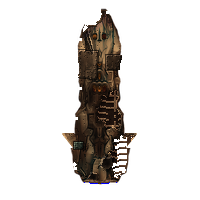
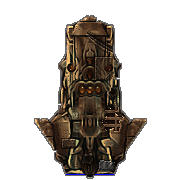
The Purifier escorts: coherent symmetrical warships, damage inside the outline
- Each escort is now a symmetric Shakturi hull with the family's armoured pointed prow and mirrored fins / flank
  armour (no glued-on side pods): a small finned frigate, a long straight-sided destroyer with flush gun rails, an
  arrowhead cruiser, a fortress capital ship with armour flanks, a box-sided carrier between two flight decks, a
  troop transport lined with drop pods.
- Damage keeps the silhouette: breaches leave the edge rail standing, melted edges are shallow, chips small, gouges
  no longer bite the outline; fewer, smaller missing plates.
- More value contrast (recesses darker, raised detail and the upper-left outline lit) and a dark outline (1 px on
  ships, 2 px on stations) so the frames and the dock read on bright / red nebulae.

Claude-Session: https://claude.ai/code/session_0163BYLbDKYohHLP1KWpaU5H

Changed region(s): [[0.1667, 0.0278, 0.8333, 1.0]]

diff --git a/game/scripts/purifier-ships.py b/game/scripts/purifier-ships.py
@@ -20,17 +20,21 @@ Per output frame (bow up, as the stock frames; square canvas):
    trusses, drop pods, the dock's cradle ring and clamp arms, drifting debris) layered back to front, each casting a
    soft contact shadow on what is below. Every piece is reduced to its shading (luminance, levelled per piece); the
    Shakturi red lamps ride along as a glow channel, and the thruster (pure blue) / light (pure yellow) marker pixels
-   as points, mapped through each placement and dropped where a later piece covers them. Distinct per role at play
-   zoom: a needle frigate, a destroyer with gun sponsons on outriggers, a cruiser with swept aft wings, a broad
-   fortress capital ship flanked by bulwark hulls, a twin-hulled carrier joined by an open ribbed hangar deck, a fat
-   troop transport racked with drop pods (some clamps empty).
+   as points, mapped through each placement and dropped where a later piece covers them. One shipyard, one era: each
+   escort is a symmetric Shakturi hull (bow up, engines aft) with the same armoured pointed prow and mirrored fins /
+   flank armour; the roles differ by size and outline at play zoom: a small finned frigate, a long straight-sided
+   destroyer with flush gun rails, an arrowhead cruiser on swept wings, a broad fortress capital ship with armour
+   flanks, a box-sided carrier between two flight decks, a troop transport lined with drop pods.
 2. Paint: the shading gradient-mapped onto the planet destroyer's bronze ramp (its saturated pixels' median colour
    per luminance band), dulled and a little desaturated (tarnish); trusses and cradles in a darker bronze.
 3. Battle damage (never mirrored): verdigris pooled in the crevices and streaked aft, mismatched alloy patches (dull
    steel, dark bronze, verdigris-green; seams, rivet rows, some overhanging the hull edge), broad scorch, missing
    plates (a dark hole with the ribs and stringers inside, a torn lit lip), skeletal breaches at the hull edge (the
-   skin gone, the ribs standing out to the old outline, space showing between them), impact craters (lit rim, cracks,
-   soot halo), long gouges, melted edges (eaten silhouette, slag rim, heat tint), chipped edges and fine pitting.
+   skin gone, space showing between the ribs, the edge rail of the outline left standing), impact craters (lit rim,
+   cracks, soot halo), long gouges, shallow melted edges (slag rim, heat tint), small chips and fine pitting: the
+   damage sits inside the silhouette, which keeps its shape. Value contrast: recesses darkened, raised detail lifted,
+   lit bronze on the outline's upper-left edges and shadow on the far ones, then a dark outline (1 px on the ships,
+   2 px on the stations) so the frames read on bright and red nebulae.
    Sized for the drawn sizes (about 60-130 px at the closest zoom, 15-35 px at play zoom), so the patches, the
    notches in the outline and the breaches still read small.
 4. Lights: the red lamps become a dim amber ember (as the destroyer's palette), a third of them dead. The marker
@@ -362,7 +366,7 @@ def plate(w, h, chamfer=0.25, taper=0.0, bevel=2, seams=(), skew=0.0):
         L[y:y + 1] *= 0.45
         if y + 1 < h:
             L[y + 1] = np.minimum(1, L[y + 1] * 1.25)
-    L = tex(L, yy * 0.9, xx * 1.1 + 7, 0.45)
+    L = tex(L, yy * 0.9, xx * 1.1 + 7, 0.45) * 0.86
     return Piece(L, A)
 
 
@@ -525,6 +529,8 @@ EMBER = np.array([1.0, 0.52, 0.16])
 def paint(L, A, T, M, xs, cols):
     v = np.clip(L * 0.76 * (1 + T), 0, 1)
     v = np.where(v > 0.5, 0.5 + (v - 0.5) * 0.6, v)  # aged: highlights compressed (dull, not polished)
+    # value contrast: darker recesses, brighter raised edges (so the hulls do not blur into one tan at play zoom)
+    v = np.clip(v + (v - fblur(v * (A > 0.5), 2.5) / np.maximum(fblur((A > 0.5).astype(np.float64), 2.5), 1e-3)) * 0.8, 0, 1)
     bronze = ramp_lookup(xs, cols, v)
     grey = np.repeat(v[..., None], 3, axis=2)
     out = bronze * 1.0 + (bronze - grey) * 0.12  # a touch richer than the ramp: old bronze, not grey
@@ -687,7 +693,7 @@ class Damage:
                 broken |= (np.abs(self.yy - yb - 0.5) < 1.5) & (np.abs(self.xx - xa) < rng.uniform(1, pitch * 1.2))
         struct = hole & (rib | stringer) & ~broken
         if see_through:
-            rail = hole & (self.depth <= 1) & (self.jag < 0.6)
+            rail = hole & (self.depth <= 2) & (self.jag < 0.78)  # the outline stays: the hull's edge rail, rarely broken
             struct |= rail
         # shadow cast into the hole by the upper-left skin
         sh = np.zeros(hole.shape)
@@ -719,7 +725,7 @@ class Damage:
         out[burn] *= 0.7
 
     # -- missing plates: a dark hole with the frame inside
-    def missing(self, n, size=(0.1, 0.15)):
+    def missing(self, n, size=(0.08, 0.12)):
         rng, side = self.rng, self.side
         for (py, px) in pick_points(rng, self.cand(6), n, side * 0.14, self.taken):
             pw = side * rng.uniform(*size)
@@ -817,9 +823,6 @@ class Damage:
             out[mid] = np.minimum(1, out[mid] * 2.4 + 0.06)
             out[lip] = np.minimum(1, out[lip] * 1.55 + 0.08)
             out[shadow] *= 0.5
-            # where the gouge runs off the hull it bites the outline
-            bite = seg & (np.abs(s) < wd * 0.9) & (self.depth <= 2) & self.solid & ~self.protect
-            self.alpha[bite] = 0
         self.refresh()
 
     # -- melted edges: the outline eaten into rounded bays, a slag rim, heat tint further in
@@ -829,7 +832,7 @@ class Damage:
             r = side * rng.uniform(*size)
             d = np.sqrt((self.xx - px) ** 2 + (self.yy - py) ** 2) / r
             n2 = fbm(rng, self.h, self.w, max(2, int(r // 2)))
-            eat = (d + (n2 - 0.5) * 0.8 < 0.6) & ~self.protect
+            eat = (d + (n2 - 0.5) * 0.8 < 0.6) & ~self.protect & (self.depth <= 3)  # shallow: the outline keeps its shape
             self.alpha[eat] = 0
             self.solid = self.alpha > 0.85
             dep = depth_inside(self.solid, 8)
@@ -850,7 +853,7 @@ class Damage:
         rng = self.rng
         c = self.solid & (self.depth == 1) & ~self.protect & (self.M['thin'] < 0.5)
         for (py, px) in pick_points(rng, c, n, 4):
-            r = rng.uniform(1.0, 2.6)
+            r = rng.uniform(1.0, 1.8)
             m = ((self.xx - px) ** 2 + (self.yy - py) ** 2) < r * r
             self.alpha[m & ~self.protect] = 0
         self.refresh()
@@ -872,12 +875,12 @@ class Damage:
 
 # Damage per frame: patches, scorches, missing plates, edge breaches, craters, gouges, melted edges, chips.
 WEAR = {
-    'frigate': (3, 2, 1, 1, 2, 1, 1, 14),
-    'destroyer': (4, 3, 2, 2, 3, 2, 1, 18),
-    'cruiser': (5, 3, 2, 2, 4, 2, 1, 22),
-    'capitalship': (6, 4, 3, 3, 5, 3, 2, 26),
-    'carrier': (5, 3, 2, 2, 4, 2, 1, 22),
-    'trooptransport': (4, 3, 2, 1, 3, 2, 1, 18),
+    'frigate': (3, 2, 1, 0, 2, 1, 0, 8),
+    'destroyer': (4, 3, 2, 1, 3, 2, 0, 10),
+    'cruiser': (5, 3, 2, 1, 4, 2, 1, 12),
+    'capitalship': (6, 4, 3, 1, 5, 3, 1, 14),
+    'carrier': (5, 3, 2, 1, 4, 2, 1, 12),
+    'trooptransport': (4, 3, 2, 0, 3, 2, 0, 10),
     'base_0': (5, 3, 2, 2, 3, 2, 2, 20),
     'base_1': (7, 4, 3, 2, 5, 3, 2, 30),
 }
@@ -885,69 +888,62 @@ WEAR = {
 
 def build(root, name, rng):
     P = lambda f, crop=None, **k: Piece.load(root, f, crop, **k)  # noqa: E731
+    # One shipyard, one era: every escort is a Shakturi hull (symmetric, bow up, engines aft) with the same armoured
+    # prow and the same kind of swept aft fins / flank armour, mirrored; the roles differ by size and outline.
+    def prow(c, w, h, y, x=None, gain=0.95):
+        c.put(plate(w, h, chamfer=0.42, taper=0.72, seams=(0.45,)), c.w / 2 if x is None else x, y, shadow=0.35, gain=gain)
+
     if name == 'frigate':
-        # A needle: the slim Shakturi destroyer hull squeezed narrower still, swept fins and the frigate's engine
-        # block aft.
-        c = Canvas(200)
-        c.put(plate(14, 34, chamfer=0.1, skew=0.8, seams=(0.4,)), 82, 150, shadow=0, mirror=True)
-        c.put(P('frigate', (31, 100, 129, 159)), 100, 166, 0.62, shadow=0)
-        c.put(P('destroyer'), 100, 96, 0.82, shadow=0.5, sx=0.62, sy=1.0)
+        # Small and short: the Shakturi frigate a little slimmed, a pointed prow, two small swept fins.
+        c = Canvas(180)
+        c.put(plate(16, 34, chamfer=0.15, skew=0.7, seams=(0.5,)), 52, 136, shadow=0, mirror=True)
+        c.put(P('frigate'), 90, 100, 1.0, shadow=0.5, sx=0.84)
+        prow(c, 40, 30, 22)
         return c
     if name == 'destroyer':
-        # The Shakturi destroyer with two gun sponsons (frigate hulls cut short) out on lattice outriggers.
+        # Long and lean, straight-sided: the slim Shakturi destroyer with gun rails flush down both flanks (no wings),
+        # a long pointed prow.
         c = Canvas(240)
-        sp = P('frigate', (31, 30, 129, 159))
-        c.put(truss(10, 150, bay=10), 120, 124, rot=90, shadow=0.3)
-        c.put(truss(10, 150, bay=10, cut=(30, 36)), 120, 156, rot=90, shadow=0.3)
-        c.put(sp, 56, 140, 0.48, shadow=0.45, mirror=True, sy=1.25)
-        c.put(P('destroyer'), 120, 116, 0.92, shadow=0.55, sx=0.95)
-        c.put(plate(16, 26, chamfer=0.45, taper=0.4), 120, 16, shadow=0.3, gain=0.95)
+        c.put(plate(18, 132, chamfer=0.5, taper=0.2, seams=(0.25, 0.5, 0.75)), 120 - 41, 142, shadow=0, mirror=True)
+        c.put(P('destroyer'), 120, 126, 1.0, shadow=0.5, sx=0.9)
+        prow(c, 44, 36, 26)
         return c
     if name == 'cruiser':
-        # Long, with heavy swept wings aft (an arrowhead at play zoom) and a dorsal armour spine.
+        # An arrowhead: the Shakturi cruiser on broad swept wings, a dorsal armour spine.
         c = Canvas(280)
-        wing = plate(46, 74, chamfer=0.2, skew=0.55, seams=(0.33, 0.66))
-        c.put(wing, 86, 186, shadow=0, mirror=True)
-        c.put(P('capitalship', (73, 190, 197, 266)), 140, 236, 0.9, shadow=0.3, gain=0.9)
-        c.put(P('cruiser'), 140, 132, 1.0, shadow=0.55, sx=0.92, sy=1.0)
-        c.put(plate(14, 70, chamfer=0.4, taper=0.3, seams=(0.25, 0.5, 0.75)), 140, 96, shadow=0.4, gain=0.85, tone=-0.08)
+        c.put(plate(48, 80, chamfer=0.18, skew=0.6, seams=(0.33, 0.66)), 88, 190, shadow=0, mirror=True)
+        c.put(P('cruiser'), 140, 140, 1.0, shadow=0.55, sx=0.92)
+        c.put(plate(16, 84, chamfer=0.4, taper=0.3, seams=(0.25, 0.5, 0.75)), 140, 112, shadow=0.4, gain=0.85, tone=-0.06)
+        prow(c, 50, 36, 22)
         return c
     if name == 'capitalship':
-        # A broad fortress: the Shakturi capital hull widened, flanked by two bulwark hulls (destroyer frames) and
-        # slab armour across the bow (a hammerhead).
+        # A broad fortress, the biggest outline: the Shakturi capital hull widened, long armour flanks down both
+        # sides, a wide heavy prow, short fins at the stern.
         c = Canvas(320)
-        c.put(P('destroyer'), 98, 176, 0.86, shadow=0, mirror=True, sx=0.9)
-        c.put(truss(12, 70, bay=12), 160, 132, rot=90, shadow=0.3)
-        c.put(truss(12, 70, bay=12), 160, 222, rot=90, shadow=0.3)
-        c.put(P('capitalship'), 160, 168, 1.0, shadow=0.6, sx=1.12, sy=1.04)
-        c.put(plate(110, 26, chamfer=0.12, taper=0.15, seams=(0.5,)), 160, 44, shadow=0.45, gain=0.92)
+        c.put(plate(22, 56, chamfer=0.1, skew=0.5, seams=(0.5,)), 72, 262, shadow=0, mirror=True)
+        c.put(plate(34, 184, chamfer=0.35, taper=0.25, seams=(0.2, 0.4, 0.6, 0.8)), 160 - 68, 180, shadow=0, mirror=True)
+        c.put(P('capitalship'), 160, 170, 1.0, shadow=0.6, sx=1.14, sy=1.02)
+        prow(c, 84, 40, 30)
         return c
     if name == 'carrier':
-        # Twin hulls (the carrier frame split down the keel) joined by an open, ribbed hangar deck.
+        # Broad and box-sided: the Shakturi carrier hull between two long flat flight decks, launch bays at their bows.
         c = Canvas(300)
-        left = P('carrier', (63, 5, 125, 245))
-        right = P('carrier', (125, 5, 187, 245))
-        c.put(hangar(64, 176, missing=(5, 6, 11)), 150, 152, shadow=0)
-        c.put(plate(70, 20, chamfer=0.3, seams=(0.5,)), 150, 70, shadow=0.35, gain=0.9)
-        c.put(plate(70, 16, chamfer=0.0), 150, 236, shadow=0.35, gain=0.85)
-        c.put(left, 92, 150, 1.0, shadow=0.55, sx=1.05)
-        c.put(right, 208, 150, 1.0, shadow=0.55, sx=1.05)
+        deck = plate(36, 206, chamfer=0.2, seams=(0.18, 0.36, 0.54, 0.72, 0.9))
+        for y in (96, 150, 204):  # the deck struts, under everything
+            c.put(plate(40, 12, chamfer=0.0, bevel=1), 150 - 58, y, shadow=0, mirror=True, gain=0.8)
+        c.put(deck, 150 - 64, 158, shadow=0, mirror=True, tone=-0.04)
+        c.put(hangar(22, 26, pitch=7), 150 - 66, 76, shadow=0.3, mirror=True)
+        c.put(P('carrier'), 150, 152, 1.0, shadow=0.55)
+        prow(c, 52, 34, 30)
         return c
     if name == 'trooptransport':
-        # A fat drop-ship: the troop transport hull racked both sides with drop pods, some clamps empty.
+        # Fat and short: the Shakturi troop transport, drop pods tucked in a neat rack down each flank.
         c = Canvas(240)
-        pd = pod(20, 30, bands=(0.35, 0.7))
-        cl = clamp_arm(14, 28)
-        c.put(P('trooptransport'), 120, 120, 1.0, shadow=0.6, sx=0.92, sy=1.05)
-        c.put(truss(8, 132, bay=8), 61, 114, shadow=0.3, mirror=True, marks=False)
-        for k, y in enumerate((66, 98, 130, 162)):
-            for side in (0, 1):
-                x = 48 if side == 0 else 192
-                empty = (k, side) in ((1, 1), (3, 0))
-                if empty:
-                    c.put(cl, x + (8 if side == 0 else -8), y, shadow=0.3, flipx=(side == 1), marks=False)
-                else:
-                    c.put(pd, x, y, shadow=0.35, tone=0.02 * k)
+        pd = pod(20, 28, bands=(0.35, 0.7))
+        for k, y in enumerate((70, 100, 130, 160)):
+            c.put(pd, 120 - 62, y, shadow=0, mirror=True)
+        c.put(P('trooptransport'), 120, 122, 1.0, shadow=0.6, sx=0.96)
+        prow(c, 48, 30, 22)
         return c
     if name == 'base_0':
         # A broken outpost: the Shakturi station body inside a half-ring of gantry, one arm snapped, debris adrift.
@@ -1042,7 +1038,23 @@ def finish(name, c, xs, cols, rng):
     out[off] = np.array([0.16, 0.06, 0.035]) * (0.6 + g[off])[:, None]
     if name.startswith('base'):
         out = out * 1.12  # the stations sit in nebulae and gas clouds: a little lift so the ruin still reads there
+    # the silhouette: lit bronze on the edges facing the light (upper left), shadowed on the far side
+    solid = alpha > 0.5
+    d = depth_inside(solid, 3)
+    ext = ~solid
+    near_ul = shift(ext, 1, 1) | shift(ext, 1, 0) | shift(ext, 0, 1) | shift(ext, 2, 2)
+    near_br = shift(ext, -1, -1) | shift(ext, -1, 0) | shift(ext, 0, -1) | shift(ext, -2, -2)
+    lit = solid & (d <= 2) & near_ul & ~near_br & ~protect
+    out[lit] = np.minimum(1, out[lit] * 1.35 + 0.05)
+    shd = solid & (d <= 2) & near_br & ~near_ul & ~protect
+    out[shd] *= 0.6
     out = np.clip(out, 0, 1)
+    # a dark outline round everything (2 px on the stations, 1 px on the ships): reads on bright / red nebulae
+    ow = 2 if name.startswith('base') else 1
+    ring_ = dilate(solid, ow) & ~solid & (alpha < 0.5)
+    oa = 0.85 if name.startswith('base') else 0.6
+    out[ring_] = np.array([0.025, 0.02, 0.016])
+    alpha = np.where(ring_, np.maximum(alpha, oa), alpha)
     res = np.zeros((h, w, 4), np.uint8)
     res[..., :3] = np.round(out * 255)
     res[..., 3] = np.round(np.clip(alpha, 0, 1) * 255)

diff --git a/game/docs/release-notes.md b/game/docs/release-notes.md
@@ -4,7 +4,7 @@ Notes for the next release, to copy into the GitHub release (RELEASING.md step 2
 
 ## Unreleased
 
-- **The Purifier: worn-down war machines and a ruined dock.** The Purifier's escorts and guards (escort, frigate, destroyer, cruiser, capital ship, carrier, troop transport) have new art: the same aged bronze as before, now battered by ages of fighting, with missing hull plates showing the ribbed frame inside (space showing between the ribs where the hull edge is gone), gouges, impact craters, scorch, melted edges, mismatched plates of dull steel, dark bronze and green-tinged metal welded over old holes, verdigris in the crevices and chipped edges. Each type has its own shape: a needle frigate, a destroyer with gun sponsons on beams, a cruiser with swept wings, a broad fortress capital ship flanked by extra hulls, a twin-hulled carrier joined by an open hangar deck, a troop transport lined with drop pods (some clamps empty). Its dock is now a half-ruined shipyard: an empty cradle ring where the Purifier slept, clamp arms reaching in (one snapped off and drifting), broken gantries and scaffold arms, and debris floating around it; its other stations match. The planet destroyer itself keeps its look, so it still stands out as the one unbroken weapon. Looks only: nothing in the game rules changes.
+- **The Purifier: worn-down war machines and a ruined dock.** The Purifier's escorts and guards (escort, frigate, destroyer, cruiser, capital ship, carrier, troop transport) have new art: the same aged bronze as before, now battered by ages of fighting, with missing hull plates showing the ribbed frame inside (space showing between the ribs where the hull edge is gone), gouges, impact craters, scorch, melted edges, mismatched plates of dull steel, dark bronze and green-tinged metal welded over old holes, verdigris in the crevices and chipped edges. They are one family of clean, symmetrical warships (a pointed armoured prow, a defined spine, engines at the stern), with the damage inside the outline, and each type has its own shape: a small finned frigate, a long straight-sided destroyer, an arrowhead cruiser on swept wings, a broad fortress capital ship with armour flanks, a box-sided carrier between two flight decks, a troop transport lined with drop pods. Brighter edges, darker recesses and a thin dark outline keep them readable at normal zoom and against nebulae. Its dock is now a half-ruined shipyard: an empty cradle ring where the Purifier slept, clamp arms reaching in (one snapped off and drifting), broken gantries and scaffold arms, and debris floating around it; its other stations match. The planet destroyer itself keeps its look, so it still stands out as the one unbroken weapon. Looks only: nothing in the game rules changes.
 - **Mothball slot: left-click opens the port list.** On the selection panel, clicking Mothball now lists your space ports (best one first, marked ★) instead of sending the force straight to the best port, as the Fleets and Ships screens already did. Reactivate and Cancel still act at once.
 - **Crisis interactions: reputation, opportunists, the council, Purifier refugees.** The loose crisis factions (the Purifier, the Cult, the Hive, Generation Ships, and the Grey Tide, Ghost Armada, Dark Farms, Robot Mutiny, Hollow Fleet and Probe Swarm) now draw reactions from the rest of the galaxy, with no new screens: (1) *Reputation* (needs the Reputation add-on): an empire that fights a crisis (kills its ships, loses ships to it, keeps shooting at it) earns a small, once-only +3 regard from every empire that has met it and is not at war with it; an empire that sits a crisis out for two years (once the faction has hurt someone) while it is within three sectors of its colonies loses 2 with the same empires; both fade by 1 a year, and a human empire is told. (2) *Opportunists*: when a crisis hits an empire (a colony risen to the faction, invaded or destroyed) and a rival that was not already at war with it declares war on it within 180 days, both empires get a message ("X takes advantage of the Cult rising in Y"), the whole galaxy gets a news line (so the event log has it), and, with Reputation on, the victim's regard for the rival drops by 3. It only reports what the stock AI does. (3) *The Galactic Council* (and the Interstellar Diet) can table, through its existing motion kinds, declaring a loose crisis faction a threat to the galaxy (the joint defence; once passed, AI members that have met a non-pirate faction declare war on it, a joint war), sanctioning it (non-pirate factions), and condemning an empire seen helping it (the exposed waker of the Purifier, or a treaty partner of the faction). Only in a game with a council. (4) *Purifier refugees*: when the Purifier destroys a populated colony, 20% of each race survives and flees to the nearest colonies (the owner's own first, then neighbours not at war with it): as ordinary refugee convoys when Refugees & Demographics is on, otherwise at once. Receiving colonies keep the people as extra population and take a crowding hit on approval (up to -4, fading over 18 months).
 - **Void Whale: the Leviathan's fins and flukes join its body cleanly.** The dark notch and the black strip along the body's edge under the pectoral fins are gone (the edge there was filled with keyed-out background), and the hard straight seam where each fin met the body is now a soft join: the flank's hide runs into the fin's base and swells over it, matching in texture, colour, lighting and weathering. The fins carry a deeper strip of hide under their roots, so no gap or dark sliver opens as they row forward and back, and the flukes' stalk now matches the body's shading where they join and stays inside the stalk through the whole tail stroke. The harpoons and wounds are unchanged. Art only (regenerated by scripts/leviathan-parts.py).
